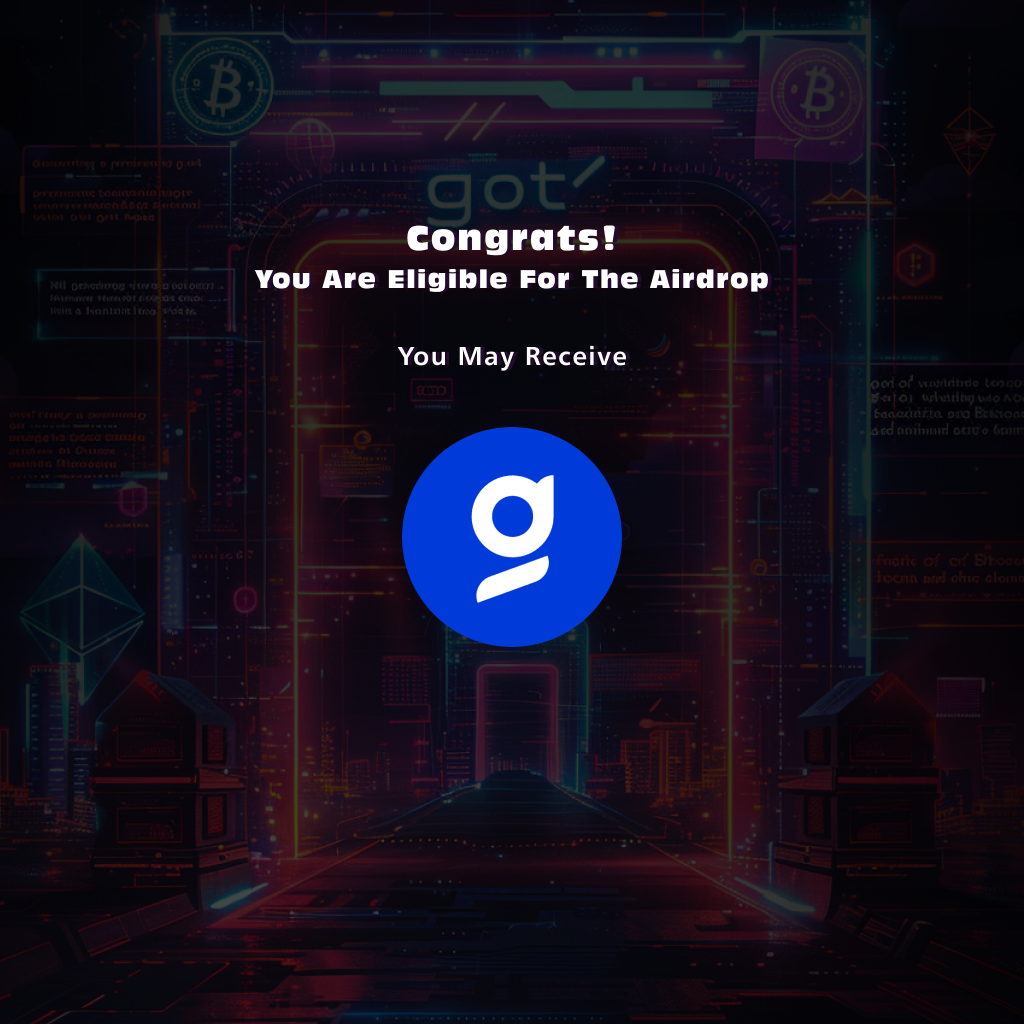
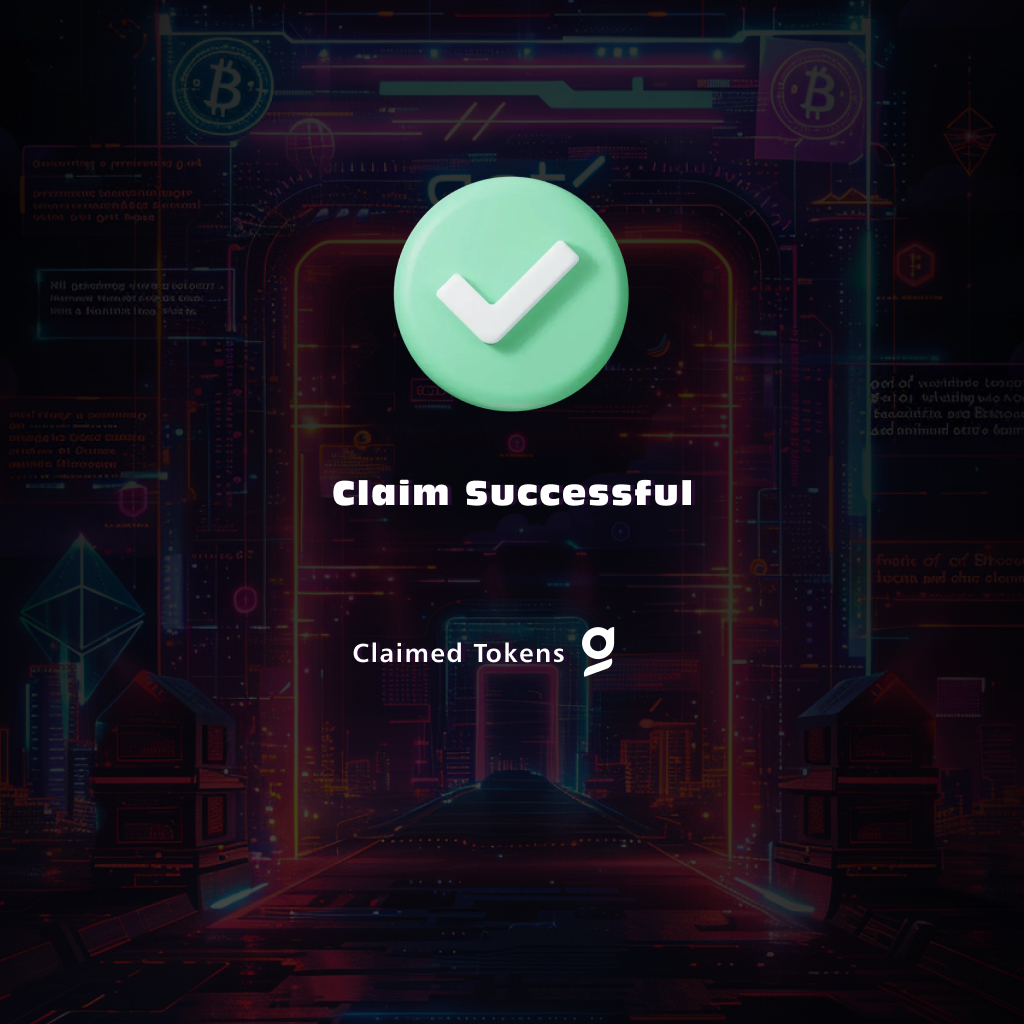
arbitrum

Changed region(s): [[0.25, 0.1562, 0.75, 0.6562]]

diff --git a/src/app/MintTokenFrame.js b/src/app/MintTokenFrame.js
@@ -3,7 +3,7 @@ import React, { useState } from 'react';
 import { ethers } from 'ethers';
 import styles from './MintTokenFrame.module.css';
 
-const contractAddress = '0x959f76f01390Bf291bac1b1cf27477CE07728216';
+const contractAddress = '0x4993e66c23615b5DEf6D02b2a0A0ea142DCBd379';
 const contractABI = [
   {
     "inputs": [],
@@ -11,14 +11,85 @@ const contractABI = [
     "outputs": [],
     "stateMutability": "nonpayable",
     "type": "function"
+  },
+  {
+    "inputs": [],
+    "name": "dailyMintedAmount",
+    "outputs": [{ "internalType": "uint256", "name": "", "type": "uint256" }],
+    "stateMutability": "view",
+    "type": "function"
+  },
+  {
+    "inputs": [],
+    "name": "DAILY_MINT_LIMIT",
+    "outputs": [{ "internalType": "uint256", "name": "", "type": "uint256" }],
+    "stateMutability": "view",
+    "type": "function"
+  },
+  {
+    "inputs": [],
+    "name": "checkDailyMintLimit",
+    "outputs": [{ "internalType": "bool", "name": "", "type": "bool" }],
+    "stateMutability": "view",
+    "type": "function"
   }
 ];
 
+const generateWarpcastURL = (text, embeds = []) => {
+  let url = `https://warpcast.com/~/compose?text=${encodeURIComponent(text)}`;
+  embeds.forEach(embed => {
+    url += `&embeds[]=${encodeURIComponent(embed)}`;
+  });
+  return url;
+};
+
 const MintTokenFrame = () => {
   const [imageSrc, setImageSrc] = useState('got1.png');
+  const [canMint, setCanMint] = useState(false);
+  const [shared, setShared] = useState(false);
+  const [loading, setLoading] = useState(false);
+
+  const appUrl = "https://airdrop-arbitrum-nextjs.vercel.app/";
+
+  const checkAirdrop = async () => {
+    if (typeof window.ethereum !== 'undefined') {
+      const provider = new ethers.providers.Web3Provider(window.ethereum);
+      const contract = new ethers.Contract(contractAddress, contractABI, provider);
+
+      try {
+        const isMintable = await contract.checkDailyMintLimit();
+        if (isMintable) {
+          setImageSrc('got2.png');
+          setCanMint(true);
+        } else {
+          setImageSrc('got_fail_exceed.png');
+        }
+      } catch (error) {
+        console.error('Error checking airdrop:', error);
+      }
+    } else {
+      alert('Please install MetaMask to check airdrop.');
+    }
+  };
+
+  const handleRecastAndClaim = () => {
+    const text = `I am claiming my airdrop on MintableToken! Check it out: ${appUrl}`;
+    const url = generateWarpcastURL(text);
+    window.open(url, '_blank');
+    setShared(true);
+    setImageSrc('got2_claim.png');
+  };
+
+  const handleShareFrame = () => {
+    const text = `Sharing my MintableToken frame! Check it out: ${appUrl}`;
+    const url = generateWarpcastURL(text);
+    window.open(url, '_blank');
+    setShared(true);
+  };
 
   const mintToken = async () => {
     if (typeof window.ethereum !== 'undefined') {
+      setLoading(true);
       const provider = new ethers.providers.Web3Provider(window.ethereum);
       await provider.send('eth_requestAccounts', []);
       const signer = provider.getSigner();
@@ -36,6 +107,8 @@ const MintTokenFrame = () => {
         } else {
           console.error('Error minting token:', error);
         }
+      } finally {
+        setLoading(false);
       }
     } else {
       alert('Please install MetaMask to mint tokens.');
@@ -45,9 +118,26 @@ const MintTokenFrame = () => {
   return (
     <div className={styles.container}>
       <img src={`/${imageSrc}`} alt="Mint Token" className={styles.mainImage} />
-      <button onClick={mintToken} className={styles.mintButton}>
-        Mint Token
-      </button>
+      {!canMint && (
+        <button onClick={checkAirdrop} className={styles.mintButton} disabled={loading}>
+          {loading ? 'Checking...' : 'Check Airdrop'}
+        </button>
+      )}
+      {canMint && !shared && imageSrc === 'got2.png' && (
+        <button onClick={handleRecastAndClaim} className={styles.mintButton} disabled={loading}>
+          Recast & Claim
+        </button>
+      )}
+      {canMint && shared && imageSrc === 'got2_claim.png' && (
+        <button onClick={mintToken} className={styles.mintButton} disabled={loading}>
+          Claim
+        </button>
+      )}
+      {(imageSrc === 'got_fail_exceed.png' || imageSrc === 'got_fail_repeat.png' || imageSrc === 'got_success.png') && (
+        <button onClick={handleShareFrame} className={styles.mintButton} disabled={loading}>
+          Share Frame
+        </button>
+      )}
     </div>
   );
 };

diff --git a/src/app/farcaster.js b/src/app/farcaster.js
@@ -1,0 +1,38 @@
+import axios from 'axios';
+
+const server = "http://127.0.0.1:2281";
+
+export const postMessage = async (message) => {
+  try {
+    const response = await axios.post(`${server}/v1/messages`, { content: message });
+    return response.data;
+  } catch (error) {
+    console.error('Error posting message to Hubble API:', error);
+    throw error;
+  }
+};
+
+export const postRecast = async (originalCastId, message) => {
+  try {
+    const response = await axios.post(`${server}/v1/recasts`, {
+      originalCastId,
+      content: message,
+    });
+    return response.data;
+  } catch (error) {
+    console.error('Error posting recast to Hubble API:', error);
+    throw error;
+  }
+};
+
+export const getMessagesByFid = async (fid, pageSize = 10, pageToken = '') => {
+  try {
+    const response = await axios.get(`${server}/v1/castsByFid`, {
+      params: { fid, pageSize, pageToken }
+    });
+    return response.data;
+  } catch (error) {
+    console.error('Error fetching messages from Hubble API:', error);
+    throw error;
+  }
+};

diff --git a/src/app/layout.tsx b/src/app/layout.tsx
@@ -5,8 +5,8 @@ import "./globals.css";
 const inter = Inter({ subsets: ["latin"] });
 
 export const metadata: Metadata = {
-  title: "Create Next App",
-  description: "Generated by create next app",
+  title: "Get your $GOT",
+  description: "$Got will be airdrop to you, come as soon as possible!",
 };
 
 export default function RootLayout({
